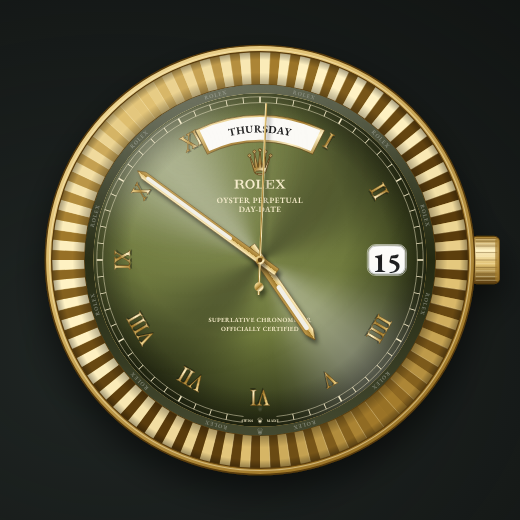
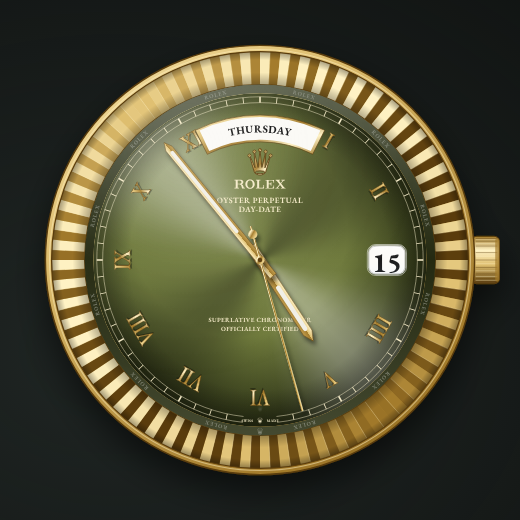
Remove date readout and add a collapsible side panel
The panel toggle (button or P key) lets the watch fill the screen, and
the choice is remembered between visits.

Claude-Session: https://claude.ai/code/session_01MR7uiZKYXyyZxiVebD44dd

Changed region(s): [[0.2769, 0.2154, 0.6154, 0.6769], [0.5538, 0.7077, 0.5846, 0.8], [0.2462, 0.3077, 0.2769, 0.3385]]

diff --git a/js/app.js b/js/app.js
@@ -48,9 +48,9 @@
     variants: $('#variants'),
     controls: $('#controls'),
     features: $('#features'),
-    readout: $('#readout'),
     lumeBtn: $('#lume-toggle'),
     fsBtn: $('#fs-toggle'),
+    panelBtn: $('#panel-toggle'),
   };
   let refs = {};
 
@@ -160,7 +160,6 @@
       if (refs.day) refs.day.textContent = DAYS[now.getDay()];
     }
 
-    if (beat % 8 === 0 || force) updateReadout(now);
   }
 
   function fmtElapsed(e) {
@@ -168,19 +167,6 @@
     const hh = Math.floor(t / 3600), mm = Math.floor((t % 3600) / 60), ss = t % 60;
     const frac = Math.floor((e % 1000) / 125);
     return `${hh}:${String(mm).padStart(2, '0')}:${String(ss).padStart(2, '0')}.${frac}/8`;
-  }
-
-  function updateReadout(now) {
-    const date = now.toLocaleDateString(undefined, { weekday: 'long', day: 'numeric', month: 'long', year: 'numeric' });
-    const time = now.toLocaleTimeString(undefined, { hour: '2-digit', minute: '2-digit', second: '2-digit' });
-    let extra = '';
-    const m = state.model;
-    if (m.gmt) {
-      const z = zoneParts(now, state.gmtZone);
-      const label = (ZONES.find((x) => x[0] === state.gmtZone) || [0, state.gmtZone])[1];
-      extra = `<span>GMT hand: ${label} ${String(z.h).padStart(2, '0')}:${String(z.m).padStart(2, '0')}</span>`;
-    }
-    els.readout.innerHTML = `<span>${date}</span><span class="dot"></span><span class="mono">${time}</span><span class="dot"></span><span>${LOCAL_TZ.replace(/_/g, ' ')}</span>${extra ? '<span class="dot"></span>' + extra : ''}`;
   }
 
   function loop() { tick(false); requestAnimationFrame(loop); }
@@ -338,7 +324,7 @@
   els.controls.addEventListener('change', (e) => {
     if (e.target.id === 'gmt-zone') state.gmtZone = e.target.value;
     if (e.target.id === 'h24-zone') state.h24Zone = e.target.value;
-    tick(true); updateReadout(new Date());
+    tick(true);
   });
   els.controls.addEventListener('click', (e) => {
     const b = e.target.closest('button');
@@ -356,6 +342,16 @@
   }
   els.lumeBtn.addEventListener('click', () => setNight(!state.night));
 
+  // collapsible side panel, remembered per browser
+  function setPanel(open) {
+    document.body.classList.toggle('panel-collapsed', !open);
+    els.panelBtn.setAttribute('aria-expanded', open);
+    els.panelBtn.querySelector('.lbl').textContent = open ? 'Hide panel' : 'Show panel';
+    try { localStorage.setItem('panelOpen', open ? '1' : '0'); } catch (e) { /* storage unavailable */ }
+  }
+  els.panelBtn.addEventListener('click', () => setPanel(document.body.classList.contains('panel-collapsed')));
+  try { if (localStorage.getItem('panelOpen') === '0') setPanel(false); } catch (e) { /* storage unavailable */ }
+
   els.fsBtn.addEventListener('click', () => {
     if (document.fullscreenElement) document.exitFullscreen();
     else document.documentElement.requestFullscreen && document.documentElement.requestFullscreen();
@@ -369,6 +365,7 @@
     else if (e.key === 'ArrowLeft') selectModel(MODELS[(i - 1 + MODELS.length) % MODELS.length].id);
     else if (e.key.toLowerCase() === 'l') setNight(!state.night);
     else if (e.key.toLowerCase() === 'f') els.fsBtn.click();
+    else if (e.key.toLowerCase() === 'p') els.panelBtn.click();
     else if (e.key === ' ' && state.model.chrono) { e.preventDefault(); chronoAction('start'); }
   });
 

diff --git a/styles.css b/styles.css
@@ -63,6 +63,7 @@ button { font: inherit; color: inherit; cursor: pointer; }
   gap: 24px;
   padding: 0 28px;
   align-items: start;
+  transition: grid-template-columns .45s ease, gap .45s ease;
 }
 .stage {
   position: sticky; top: 0;
@@ -74,6 +75,7 @@ button { font: inherit; color: inherit; cursor: pointer; }
 .watch-svg {
   height: min(78vh, 760px);
   width: auto;
+  transition: height .45s ease;
   max-width: 100%;
   overflow: visible;
   user-select: none;
@@ -115,12 +117,6 @@ body.night .watch-svg .night-dim { opacity: .9; }
 body.night .watch-svg .lume-layer { opacity: 1; }
 body.night .watch-svg .glare { opacity: .3; }
 
-.readout {
-  margin-top: 6px;
-  display: flex; flex-wrap: wrap; justify-content: center; align-items: center; gap: 10px;
-  font-size: 13px; color: var(--ink-2); letter-spacing: .04em; text-align: center;
-}
-.readout .dot { width: 3px; height: 3px; border-radius: 50%; background: var(--ink-3); }
 .mono { font-variant-numeric: tabular-nums; }
 
 /* ---------- panel ---------- */
@@ -196,6 +192,13 @@ kbd {
 }
 
 
+/* collapsed panel: the watch takes the whole stage */
+.panel { transition: opacity .3s ease; }
+body.panel-collapsed .layout { grid-template-columns: minmax(0, 1fr) 0px; gap: 0; }
+body.panel-collapsed .panel { opacity: 0; visibility: hidden; overflow: hidden; }
+body.panel-collapsed .watch-svg { height: min(calc(100vh - 110px), calc(100vw - 56px)); }
+@media (min-width: 981px) { .panel > * { min-width: 380px; } }
+
 /* focus mode hides everything but the watch */
 body.focus .panel, body.focus .brand { display: none; }
 body.focus .layout { grid-template-columns: 1fr; }
@@ -205,6 +208,9 @@ body.focus .watch-svg { height: 88vh; }
 @media (max-width: 980px) {
   .layout { grid-template-columns: 1fr; padding: 0 16px; }
   .stage { position: static; min-height: 0; }
+  body.panel-collapsed .panel { display: none; }
+  body.panel-collapsed .stage { min-height: calc(100vh - 90px); }
+  body.panel-collapsed .watch-svg { width: 100%; max-width: none; max-height: none; height: auto; }
   .watch-svg { height: auto; width: min(100%, 520px); max-height: 70vh; }
   .topbar { padding: 14px 16px; }
   .brand-text { font-size: 12px; letter-spacing: .22em; }

diff --git a/index.html b/index.html
@@ -21,6 +21,10 @@
       <button id="lume-toggle" class="pill" aria-pressed="false" title="Toggle luminescence (L)">
         <span class="lume-dot"></span><span class="lbl">Lume</span>
       </button>
+      <button id="panel-toggle" class="pill" aria-expanded="true" aria-controls="panel" title="Show or hide the panel (P)">
+        <svg viewBox="0 0 24 24" width="15" height="15" aria-hidden="true"><rect x="3.5" y="4.5" width="17" height="15" rx="2" fill="none" stroke="currentColor" stroke-width="1.6"/><path d="M14.5 4.5v15" stroke="currentColor" stroke-width="1.6"/></svg>
+        <span class="lbl">Hide panel</span>
+      </button>
       <button id="fs-toggle" class="pill" title="Full screen (F)">
         <svg viewBox="0 0 24 24" width="15" height="15" aria-hidden="true"><path d="M4 9V4h5M20 9V4h-5M4 15v5h5M20 15v5h-5" fill="none" stroke="currentColor" stroke-width="1.6"/></svg>
         <span class="lbl">Focus</span>
@@ -31,10 +35,9 @@
   <main class="layout">
     <section class="stage" aria-live="off">
       <div id="watch" class="watch"></div>
-      <div id="readout" class="readout"></div>
     </section>
 
-    <aside class="panel">
+    <aside id="panel" class="panel">
       <nav id="models" class="models" aria-label="Choose a model"></nav>
 
       <div class="model-head">
@@ -55,7 +58,7 @@
         <ul id="features" class="features"></ul>
       </div>
 
-      <p class="keys"><kbd>&larr;</kbd><kbd>&rarr;</kbd> switch model &nbsp; <kbd>L</kbd> lume &nbsp; <kbd>F</kbd> focus</p>
+      <p class="keys"><kbd>&larr;</kbd><kbd>&rarr;</kbd> switch model &nbsp; <kbd>L</kbd> lume &nbsp; <kbd>P</kbd> panel &nbsp; <kbd>F</kbd> focus</p>
     </aside>
   </main>
 

diff --git a/README.md b/README.md
@@ -50,6 +50,7 @@ It also works as-is on GitHub Pages (Settings > Pages > deploy from the `main` b
 |---|---|
 | `←` `→` | Switch model |
 | `L` | Lume mode |
+| `P` | Show or hide the side panel |
 | `F` | Focus mode (watch only) |
 | `Space` | Start and stop the Daytona chronograph |
 
